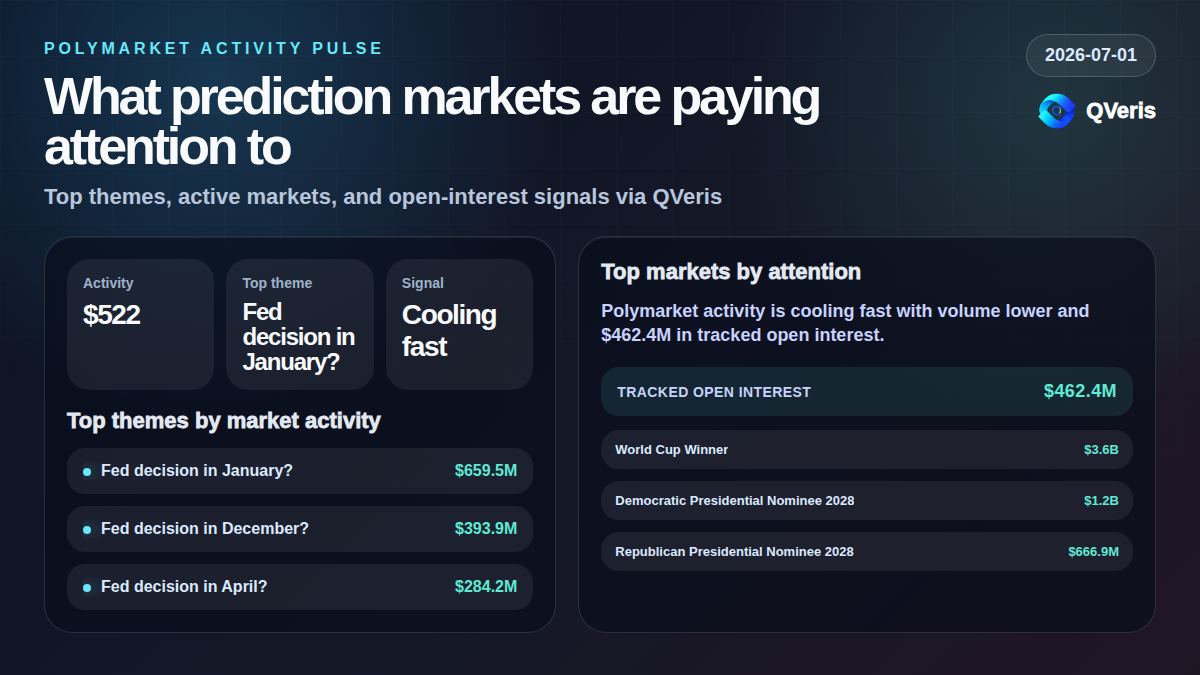
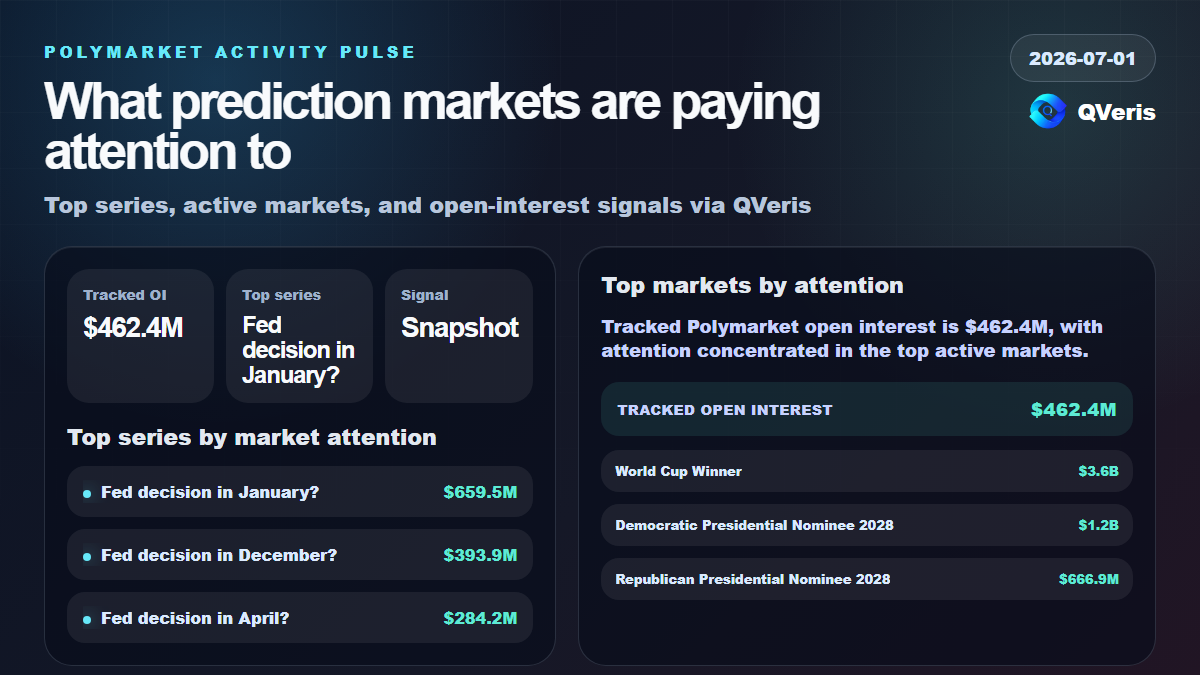
fix: align polymarket pulse around open interest

diff --git a/scripts/templates/polymarket_pulse_template.html b/scripts/templates/polymarket_pulse_template.html
@@ -210,16 +210,16 @@
       <header>
         <p class="eyebrow">Polymarket Activity Pulse</p>
         <h1>What prediction markets are paying attention to</h1>
-        <div class="subtitle">Top themes, active markets, and open-interest signals via QVeris</div>
+        <div class="subtitle">Top series, active markets, and open-interest signals via QVeris</div>
       </header>
       <section class="content">
         <div class="panel">
           <div class="metrics">
-            <div class="metric"><span>Activity</span><strong>{{VOLUME}}</strong></div>
-            <div class="metric"><span>Top theme</span><strong class="small">{{TOP_THEME}}</strong></div>
+            <div class="metric"><span>Tracked OI</span><strong>{{VOLUME}}</strong></div>
+            <div class="metric"><span>Top series</span><strong class="small">{{TOP_THEME}}</strong></div>
             <div class="metric"><span>Signal</span><strong>{{ACTIVITY_LABEL}}</strong></div>
           </div>
-          <h2 class="sideTitle">Top themes by market activity</h2>
+          <h2 class="sideTitle">Top series by market attention</h2>
           <ul class="themeList">{{TOP_THEMES}}</ul>
         </div>
         <aside class="panel">

diff --git a/scripts/fetch_polymarket_pulse.py b/scripts/fetch_polymarket_pulse.py
@@ -344,12 +344,12 @@ def activity_label(change: float) -> str:
 
 
 def takeaway(label: str, change: float, open_interest: float) -> str:
-    direction = "higher" if change >= 0 else "lower"
     if open_interest > 0:
         return (
-            f"Polymarket activity is {label.lower()} with volume {direction} "
-            f"and {money_short(open_interest)} in tracked open interest."
+            f"Tracked Polymarket open interest is {money_short(open_interest)}, "
+            "with attention concentrated in the top active markets."
         )
+    direction = "higher" if change >= 0 else "lower"
     return f"Polymarket activity is {label.lower()} with volume {direction} versus the prior point."
 
 
@@ -493,13 +493,20 @@ def main() -> dict[str, Any]:
             "QVeris returned no usable Polymarket volume or open-interest rows."
         )
 
-    if not volume_series:
-        volume_series = [{"date": "open interest snapshot", "volume": open_interest_total}]
-
-    current_volume = volume_series[-1]["volume"]
-    previous_volume = volume_series[-2]["volume"] if len(volume_series) > 1 else current_volume
-    volume_change = pct_change(current_volume, previous_volume)
-    label = activity_label(volume_change)
+    builder_volume_series = volume_series
+    if open_interest_total > 0:
+        current_volume = open_interest_total
+        previous_volume = open_interest_total
+        volume_change = 0.0
+        label = "Snapshot"
+        volume_series = [{"date": "tracked OI", "volume": open_interest_total}]
+    else:
+        if not volume_series:
+            volume_series = [{"date": "activity snapshot", "volume": open_interest_total}]
+        current_volume = volume_series[-1]["volume"]
+        previous_volume = volume_series[-2]["volume"] if len(volume_series) > 1 else current_volume
+        volume_change = pct_change(current_volume, previous_volume)
+        label = activity_label(volume_change)
 
     now = datetime.now(timezone.utc)
     run_now = datetime.now(RUN_TIMEZONE)
@@ -517,7 +524,8 @@ def main() -> dict[str, Any]:
         "top_themes": top_themes,
         "top_markets": market_candidates,
         "volume_series": volume_series,
-        "volume_available": bool(volume_payload),
+        "builder_volume_series": builder_volume_series,
+        "volume_available": bool(open_interest_total or volume_payload),
         "takeaway": takeaway(label, volume_change, open_interest_total),
         "debug": FETCH_DEBUG
         + [

diff --git a/scripts/generate_polymarket_pulse_tweet.py b/scripts/generate_polymarket_pulse_tweet.py
@@ -32,38 +32,28 @@ def money_short(value: float) -> str:
 
 
 def format_tweet(data: dict) -> str:
-    volume = money_short(float(data.get("current_volume", 0)))
-    change = float(data.get("volume_change_pct", 0))
     open_interest = money_short(float(data.get("open_interest", 0)))
-    label = data.get("activity_label", "Stable")
     top_theme = (data.get("top_themes") or [{}])[0].get("theme", "General")
     top_market = (data.get("top_markets") or [{}])[0].get("title", "Market detail pending")
     if len(str(top_market)) > 54:
         top_market = str(top_market)[:51].rstrip() + "..."
-    volume_available = bool(data.get("volume_available", True))
-    volume_line = (
-        f"- Volume: {volume} ({change:+.1f}%)"
-        if volume_available
-        else f"- Activity snapshot: {volume}"
-    )
     lines = [
-        "Prediction markets are becoming a real-time sentiment layer.",
+        "Prediction markets are becoming a real-time attention layer.",
         "",
-        "Today's Polymarket activity pulse:",
-        volume_line,
-        f"- Top theme: {top_theme}",
+        "Polymarket pulse via QVeris:",
+        f"- Tracked open interest: {open_interest}",
+        f"- Top series: {top_theme}",
         f"- Top market: {top_market}",
-        f"- Tracked OI: {open_interest}",
         "",
-        f"Built with QVeris: {WEBSITE_URL}",
+        f"Live market data -> research-ready signals: {WEBSITE_URL}",
     ]
     tweet = "\n".join(lines)
     if len(tweet) > 280:
         lines = [
             "Polymarket Activity Pulse",
             "",
-            volume_line.replace("- ", ""),
-            f"Top theme: {top_theme}",
+            f"Tracked OI: {open_interest}",
+            f"Top series: {top_theme}",
             f"Top market: {top_market}",
             "",
             "Built with QVeris.",
@@ -96,7 +86,7 @@ def archive_post(data: dict, tweet_text: str) -> None:
         "dataSource": data.get("source", "QVeris API"),
         "dataUpdatedAt": data.get("updated_at", ""),
         "xPostId": None,
-        "primaryLabel": "Top theme",
+        "primaryLabel": "Top series",
         "primaryValue": str((data.get("top_themes") or [{}])[0].get("theme", "General"))[:32],
         "secondaryLabel": "Top market",
         "secondaryValue": str((data.get("top_markets") or [{}])[0].get("title", "Pending"))[:32],

diff --git a/scripts/generate_polymarket_pulse_image.py b/scripts/generate_polymarket_pulse_image.py
@@ -96,16 +96,25 @@ def render_html(data: dict) -> str:
     change_class = "positive" if change >= 0 else "negative"
     top_theme = (data.get("top_themes") or [{}])[0].get("theme", "General")
     top_market = (data.get("top_markets") or [{}])[0].get("title", "Market detail pending")
+    open_interest = float(data.get("open_interest", 0))
+    headline_value = open_interest or float(data.get("current_volume", 0))
+    activity_label = "Snapshot" if open_interest else str(data.get("activity_label", "Stable"))
+    takeaway = (
+        f"Tracked Polymarket open interest is {money_short(open_interest)}, "
+        "with attention concentrated in the top active markets."
+        if open_interest
+        else str(data.get("takeaway", ""))
+    )
     return (
         template.replace("{{DATE}}", html.escape(data["date"]))
-        .replace("{{VOLUME}}", html.escape(money_short(float(data.get("current_volume", 0)))))
+        .replace("{{VOLUME}}", html.escape(money_short(headline_value)))
         .replace("{{VOLUME_CHANGE}}", html.escape(signed_pct(change)))
         .replace("{{CHANGE_CLASS}}", change_class)
-        .replace("{{ACTIVITY_LABEL}}", html.escape(str(data.get("activity_label", "Stable"))))
+        .replace("{{ACTIVITY_LABEL}}", html.escape(activity_label))
         .replace("{{TOP_THEME}}", html.escape(str(top_theme)))
         .replace("{{TOP_MARKET}}", html.escape(str(top_market)))
-        .replace("{{OPEN_INTEREST}}", html.escape(money_short(float(data.get("open_interest", 0)))))
-        .replace("{{TAKEAWAY}}", html.escape(str(data.get("takeaway", ""))))
+        .replace("{{OPEN_INTEREST}}", html.escape(money_short(open_interest)))
+        .replace("{{TAKEAWAY}}", html.escape(takeaway))
         .replace("{{BARS}}", series_bars(data.get("volume_series", [])))
         .replace("{{TOP_THEMES}}", top_themes_html(data.get("top_themes", [])))
         .replace("{{TOP_MARKETS}}", top_markets_html(data.get("top_markets", [])))
